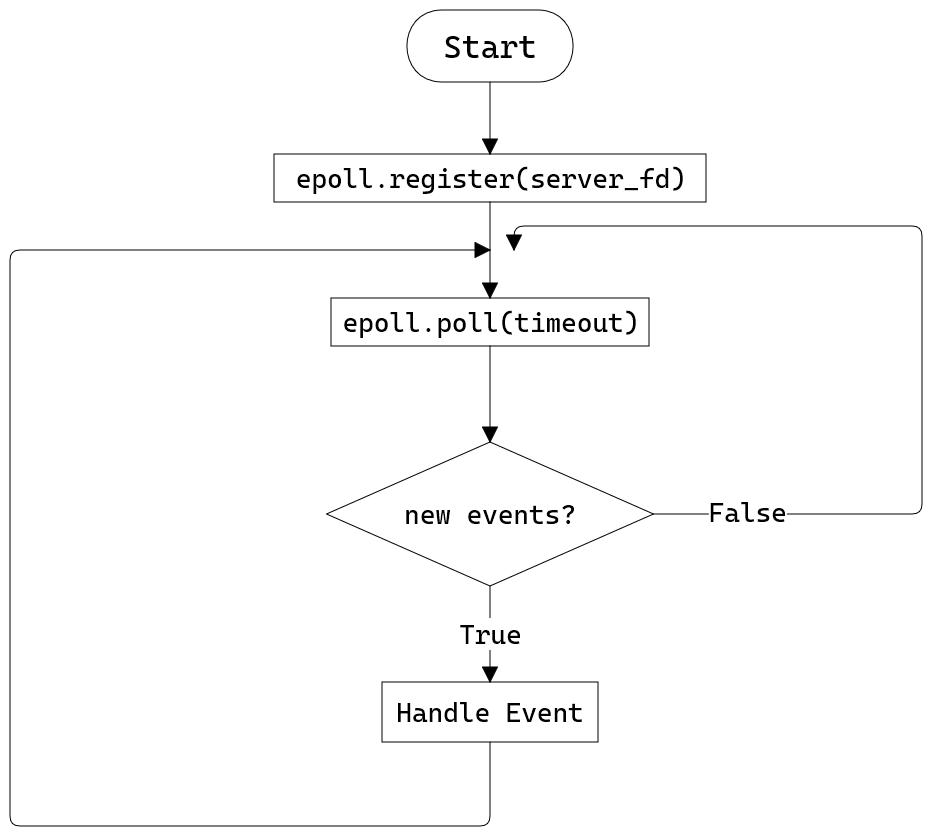
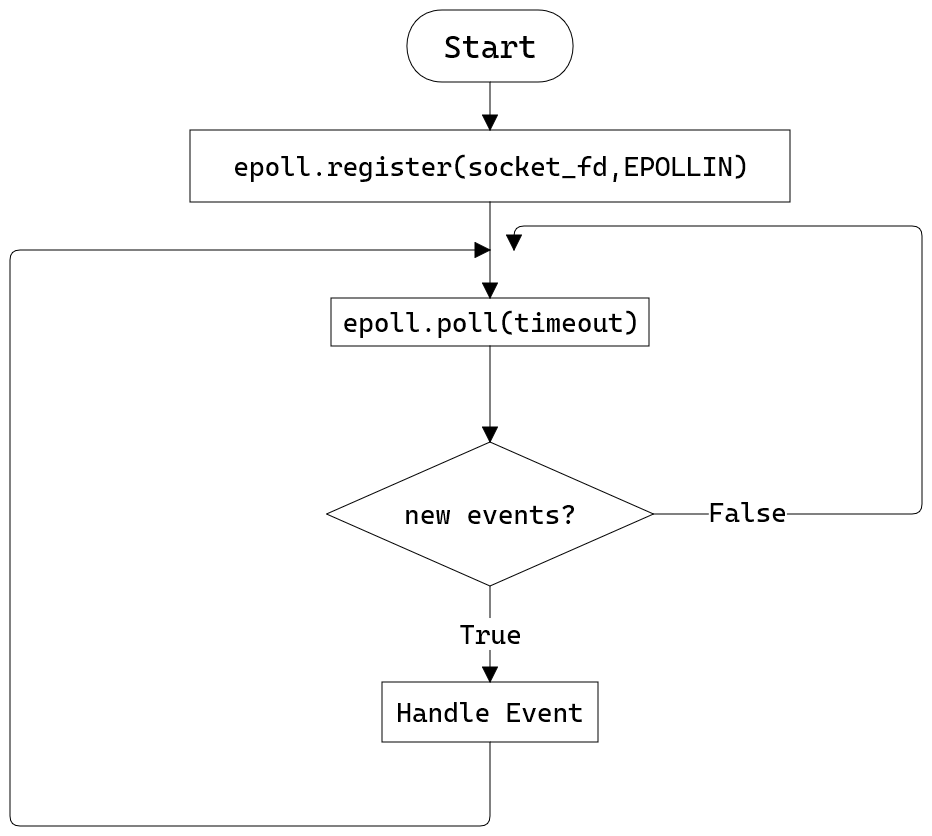
update

Changed region(s): [[0.2489, 0.1244, 0.809, 0.2488]]

diff --git a/content/09_Why_EV_loop_is_fast.md b/content/09_Why_EV_loop_is_fast.md
@@ -64,7 +64,7 @@ Libuv là gì, nó là thư viện để xử lý các vấn đề liên quan đ
     It was primarily developed for use by Node.js, but it's also used by Luvit, Julia, pyuv, and others.
 ```
 
-{% img images/09/nodejs_system.png 1000 'Node JS System' %}
+{% img images/09/nodejs_system.png 500 'Node JS System' %}
 
 
 ### Blocking Socket Server
@@ -110,14 +110,23 @@ Nhược điểm của phương pháp này nó là, mỗi thread sẽ có `call 
 
 ### Non-Blocking Socket Server
 
+{% img images/09/epoll.png 500 'Epoll' %}
 
 Để giải quyết bài toán trên mà không sử dụng đến `multithread`, chúng ta cần sử dụng một `system call` là `epoll`. `epoll` là 1 câu lệnh của hệ điều hành linux (`system call`), đưa cho `epoll` một hoặc nhiều `file descriptors`, `epoll` sẽ trả về cho chương trình những file nào có thể đọc được.
 
-{% img images/09/epoll.png 1000 'Epoll' %}
 
 
+Quay lại về bài toán lập trình socket. Để sử dụng `epoll` thì chúng ta sẽ thay đổi logic như sau:
 
-{% img images/09/epoll_flow.png 1000 'Epoll Flow' %}
+- Khởi tạo một `socket`, và `epoll`
+- Đăng kí `socket file descriptor` cùng sự kiện `EPOLLIN` vào trong `epoll`
+- Tại một vòng lặp vô tận:
+    + kiểm tra xem epoll có event mới nào không
+    + nếu có sự kiện mới thì xử lý sự kiện đó, và tiếp tục lặp
+    + nếu không thì tiếp tục quay lại vòng lặp
+
+
+{% img images/09/epoll_flow.png 500 'Epoll Flow' %}
 
 
 {% include_code 09/non_blocking_socket.py lines:67-94 lang:python %}
